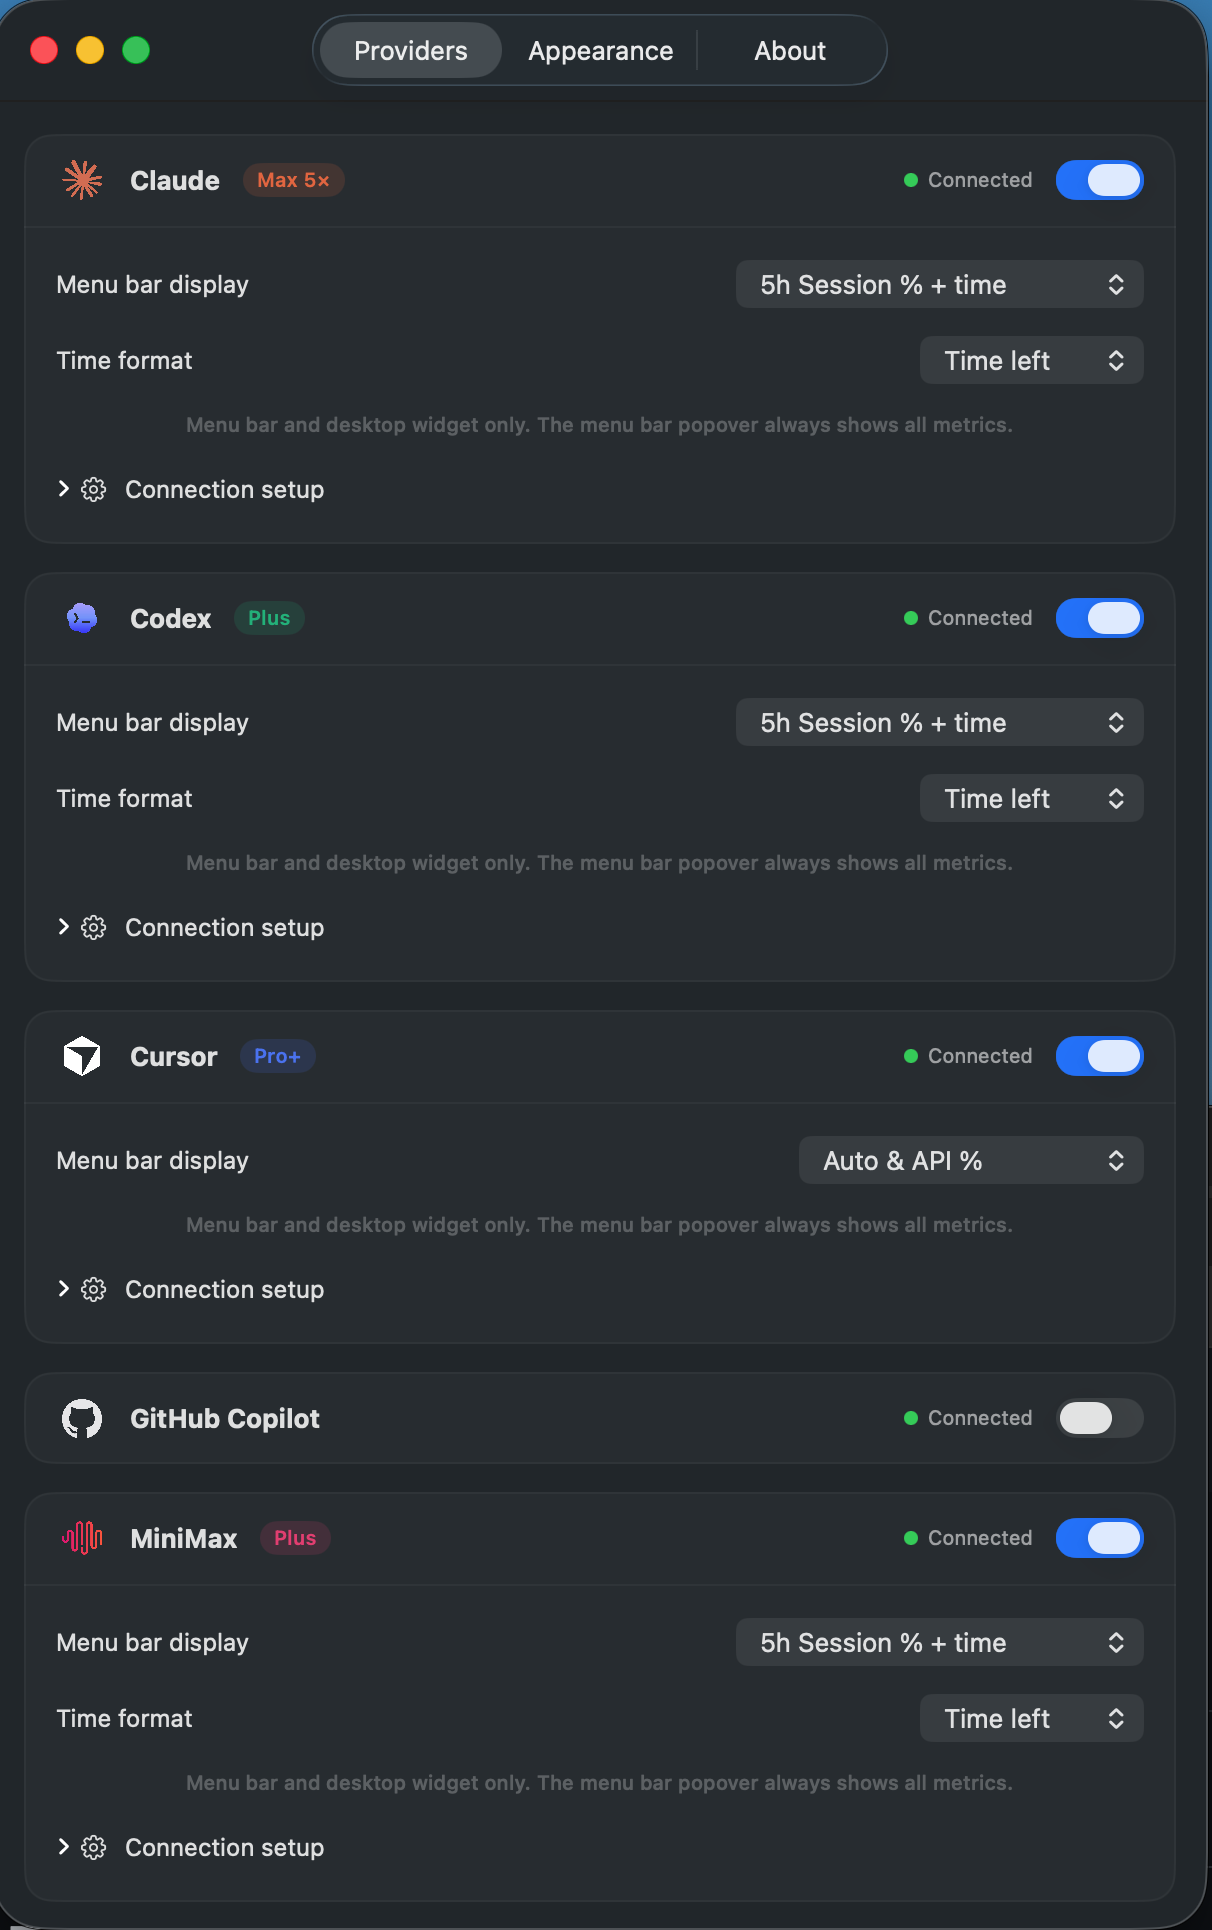
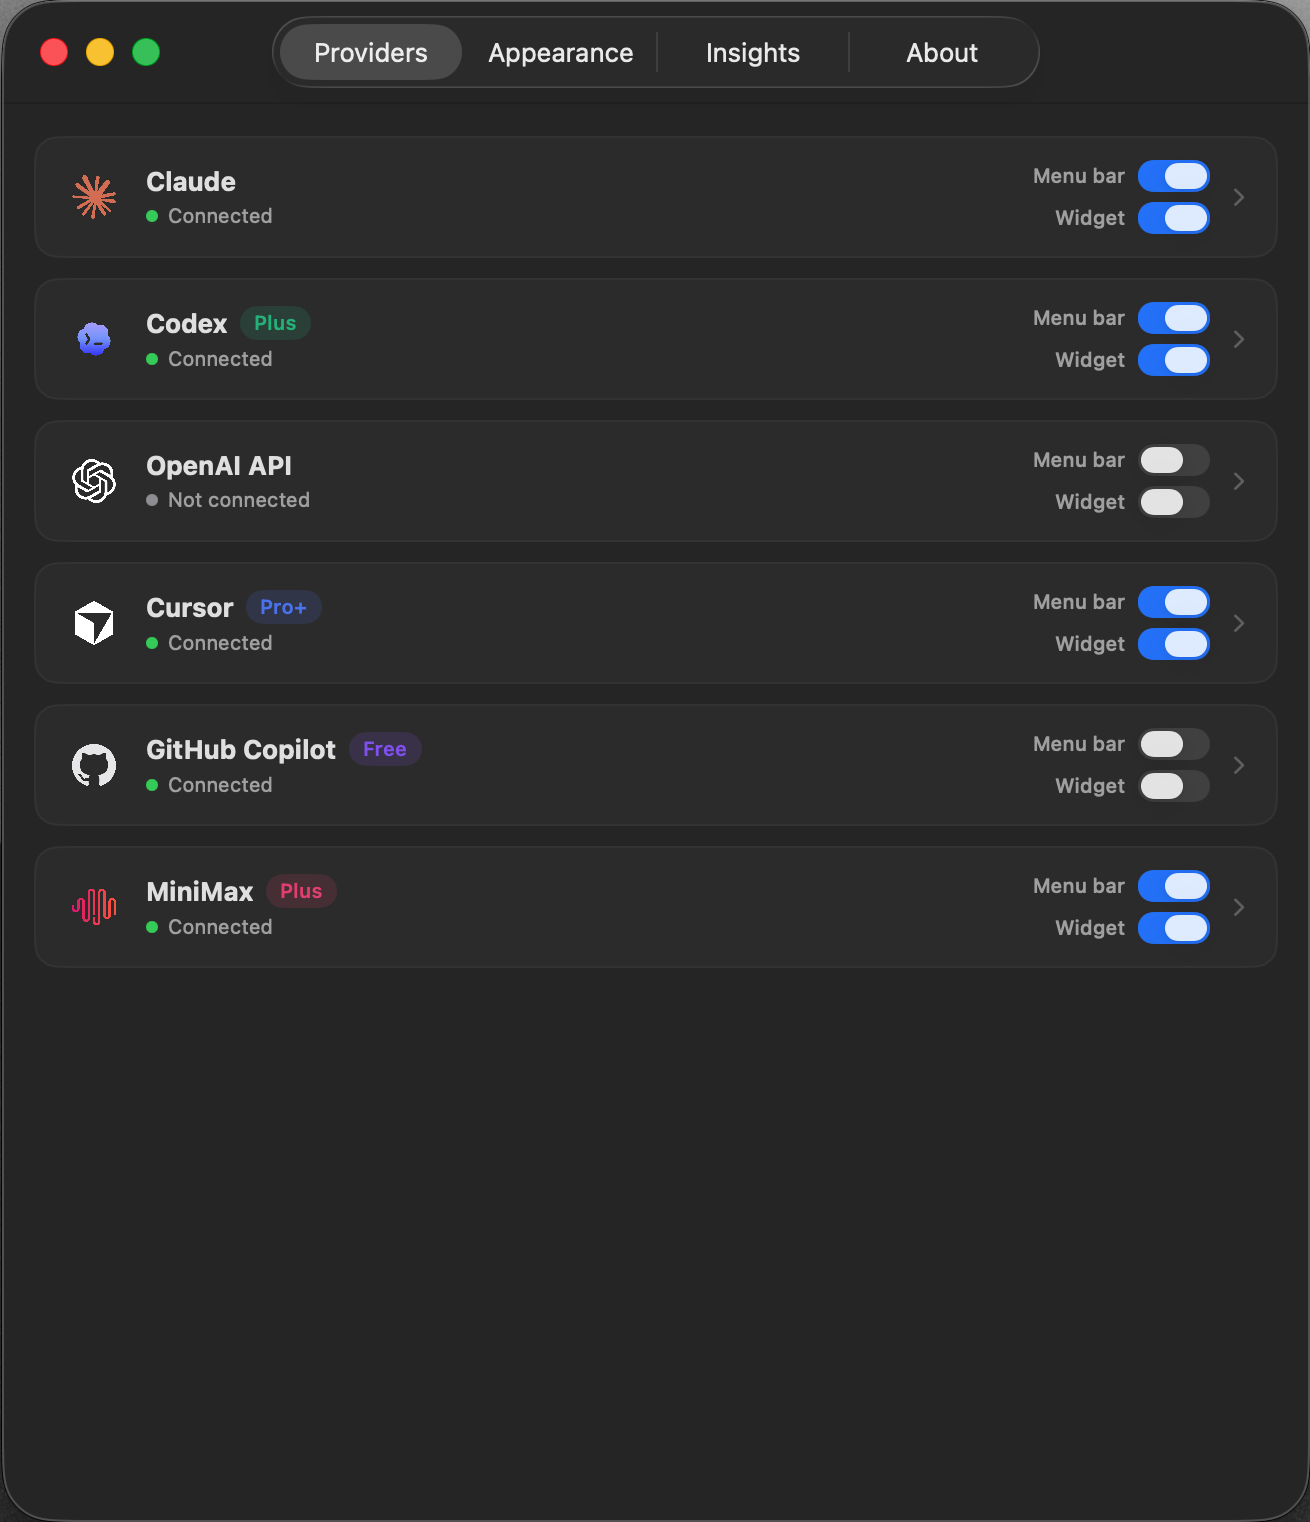
v1.1.3: refresh README + screenshots for new features
- Add Insights overview screenshot (command center, best tool, forecasts,
  right-sizing, CSV export)
- Update widget screenshot (new header with freshness timestamp + settings gear)
- Update Claude popover screenshot (5h session, weekly, usage rate, token table)
- Update Settings screenshot (per-surface Menu bar/Widget toggles, Insights tab)
- README: add Power features section, Insights tab description, OpenAI API row,
  per-surface settings description, email verification in onboarding, updated
  privacy note

diff --git a/README.md b/README.md
@@ -6,7 +6,7 @@
 
 ### All your AI coding usage. One menu bar. One glance.
 
-**EasyToken** is the macOS app that tracks how much of your AI coding tools you've used — **Claude, OpenAI Codex, Cursor, GitHub Copilot, and MiniMax** — all in one place. Live gauges in your menu bar, a rich popover with the full breakdown, and a native desktop widget. No spreadsheets, no guessing, no surprise limits.
+**EasyToken** is the macOS app that tracks how much of your AI coding tools you've used — **Claude, OpenAI Codex, Cursor, GitHub Copilot, and MiniMax** — all in one place. Live gauges in your menu bar, a rich popover with the full breakdown, a native desktop widget, and — when you want it — spend totals, alerts, forecasts, and trends across every tool. No spreadsheets, no guessing, no surprise limits.
 
 [**⬇ Download the latest version**](https://github.com/Pumpkin-Apps/easytoken-releases/releases/latest) &nbsp;·&nbsp; macOS 14 Sonoma or later &nbsp;·&nbsp; Apple Silicon + Intel
 
@@ -26,7 +26,7 @@ EasyToken fixes that. It's the **one app focused entirely on multi-provider AI u
 - 👀 **Easy to see.** Live percentage + time-remaining gauges sit right in your menu bar. Glance up, know instantly.
 - 🖥 **Easy to keep around.** A native macOS desktop widget puts your usage rings on your wallpaper or in Notification Center.
 - ⚙ **Easy to configure.** Connect each provider with a toggle, pick what each menu-bar gauge shows, and you're done.
-- 🔒 **Private by default.** EasyToken reads your usage from local files and your own accounts. Your data stays on your Mac.
+- 🔒 **Private by default.** EasyToken reads your usage from local files and your own accounts. Your usage data stays on your Mac.
 
 ---
 
@@ -71,11 +71,33 @@ A native WidgetKit widget shows a ring gauge per provider with its key number an
 
 ### ⚙ Settings — connect once, configure to taste
 
-Flip a toggle to connect each provider. For most tools there's **nothing to copy-paste** — EasyToken reads what's already on your Mac. Per provider, choose exactly what the menu bar and widget display (session %, weekly %, spend, time left, and more).
+Flip a toggle to connect each provider. For most tools there's **nothing to copy-paste** — EasyToken reads what's already on your Mac. Per provider, choose exactly what the **menu bar** and **widget** display independently — show a provider in one surface, the other, or both.
 
 <div align="center">
-<img src="assets/settings.png" width="320" alt="EasyToken Settings showing per-provider connection toggles and menu-bar display options" />
+<img src="assets/settings.png" width="400" alt="EasyToken Settings showing per-provider connection toggles with independent Menu bar and Widget surface controls" />
 </div>
+
+---
+
+## Power features — turn on what you want
+
+EasyToken stays a clean at-a-glance tracker by default. Everything below is **opt-in** in Settings → Insights, so the classic menu bar and widget look exactly the same until you decide you want more.
+
+### 🧮 Insights overview
+
+One tab with your **all-in monthly spend across every tool** — subscription fees + API usage + overage, ranked — plus a **30-day usage trend chart**, **end-of-cycle forecasts** ("at this pace you'll hit your limit before it resets"), and a live **"best tool right now"** recommendation based on which connected tool has the most headroom.
+
+<div align="center">
+<img src="assets/popover-insights.png" width="270" alt="Insights tab: best tool now, spend command center, daily token chart, forecast by provider, right-sizing nudges, CSV export" />
+</div>
+
+- ⚡ **Best tool right now** — always shows which connected tool has the most headroom so you route work to whatever won't throttle you.
+- 🔔 **Threshold alerts** — get a native notification before you hit a cap. Once per cycle, never spammy, never on stale data.
+- 🌙 **Deep Work mode** — mute alerts while you're in the zone.
+- 💡 **Right-sizing nudges** — gentle "paying for it, barely using it?" flags for subscriptions you've left idle.
+- 📤 **Export** — one click to save your usage history as a CSV for your own analysis or expense reports.
+- ⌨ **Shortcuts & terminal** — a bundled `easytoken-cli` and Apple Shortcuts actions let you query usage or "best tool now" from the terminal, Raycast, Alfred, or a Shortcut.
+- 🛟 **Never silently stale** — EasyToken tracks each provider's last successful update and clearly marks data as stale rather than showing you a confidently wrong number.
 
 ---
 
@@ -85,9 +107,12 @@ Flip a toggle to connect each provider. For most tools there's **nothing to copy
 | --- | --- | --- |
 | **Claude** (Claude Code / Claude.ai) | 5-hour + weekly limits, tokens, cost, model mix | Sign in with Claude Code — reads local session files, no API key |
 | **OpenAI Codex** | 5-hour + weekly rate limits, tokens, models | Reads the Codex CLI's local session files — no login |
+| **OpenAI API** | Monthly API spend vs. your budget, daily usage | Paste an org Admin key (optional) |
 | **Cursor** | Monthly spend, plan, acceptance, code attribution | Stay signed in to Cursor — reads local data + your account |
 | **GitHub Copilot** | Quota and token usage | Reads VS Code's local Copilot logs |
 | **MiniMax** | 5-hour + weekly request windows | Quick in-app sign-in — no API key needed |
+
+> Want true all-in spend? Add your flat monthly subscription cost per provider in Settings and the Insights overview combines it with API/overage charges for a real total.
 
 ---
 
@@ -95,11 +120,11 @@ Flip a toggle to connect each provider. For most tools there's **nothing to copy
 
 1. [**Download the latest DMG**](https://github.com/Pumpkin-Apps/easytoken-releases/releases/latest).
 2. Open it and drag **EasyToken** to your Applications folder.
-3. Launch it — a friendly onboarding walks you through connecting each provider.
-4. Open **Settings** to turn providers on/off and choose what each menu-bar gauge shows.
+3. Launch it — a friendly onboarding walks you through a quick email verification (**founding users lock in free lifetime access** when paid plans launch) and connecting each provider.
+4. Open **Settings** to turn providers on/off, choose what each menu-bar/widget gauge shows, and flip on any Insights features you want.
 5. (Optional) Right-click your desktop → **Edit Widgets** → search **"EasyToken"** to add the widget.
 
-> 💡 Turn on **Launch at Login** in Settings so your gauges and widget stay live in the background.
+> 💡 Turn on **Launch at Login** in Settings so your gauges, widget, and alerts stay live in the background.
 
 ---
 
@@ -107,9 +132,9 @@ Flip a toggle to connect each provider. For most tools there's **nothing to copy
 
 EasyToken is built to keep your data yours:
 
-- It reads usage from **local files** your tools already write, and from **your own signed-in accounts**.
+- Your **usage data stays on your Mac.** EasyToken reads it from **local files** your tools already write and from **your own signed-in accounts** — there's no EasyToken server collecting your activity.
 - Credentials are stored on your Mac (in the system Keychain where applicable).
-- There's **no EasyToken server** collecting your usage — nothing about your activity is sent to us.
+- The one thing you share is the **email you verify at setup**, used to send product updates and grant founding-user access — nothing about your actual usage.
 
 ---
 
